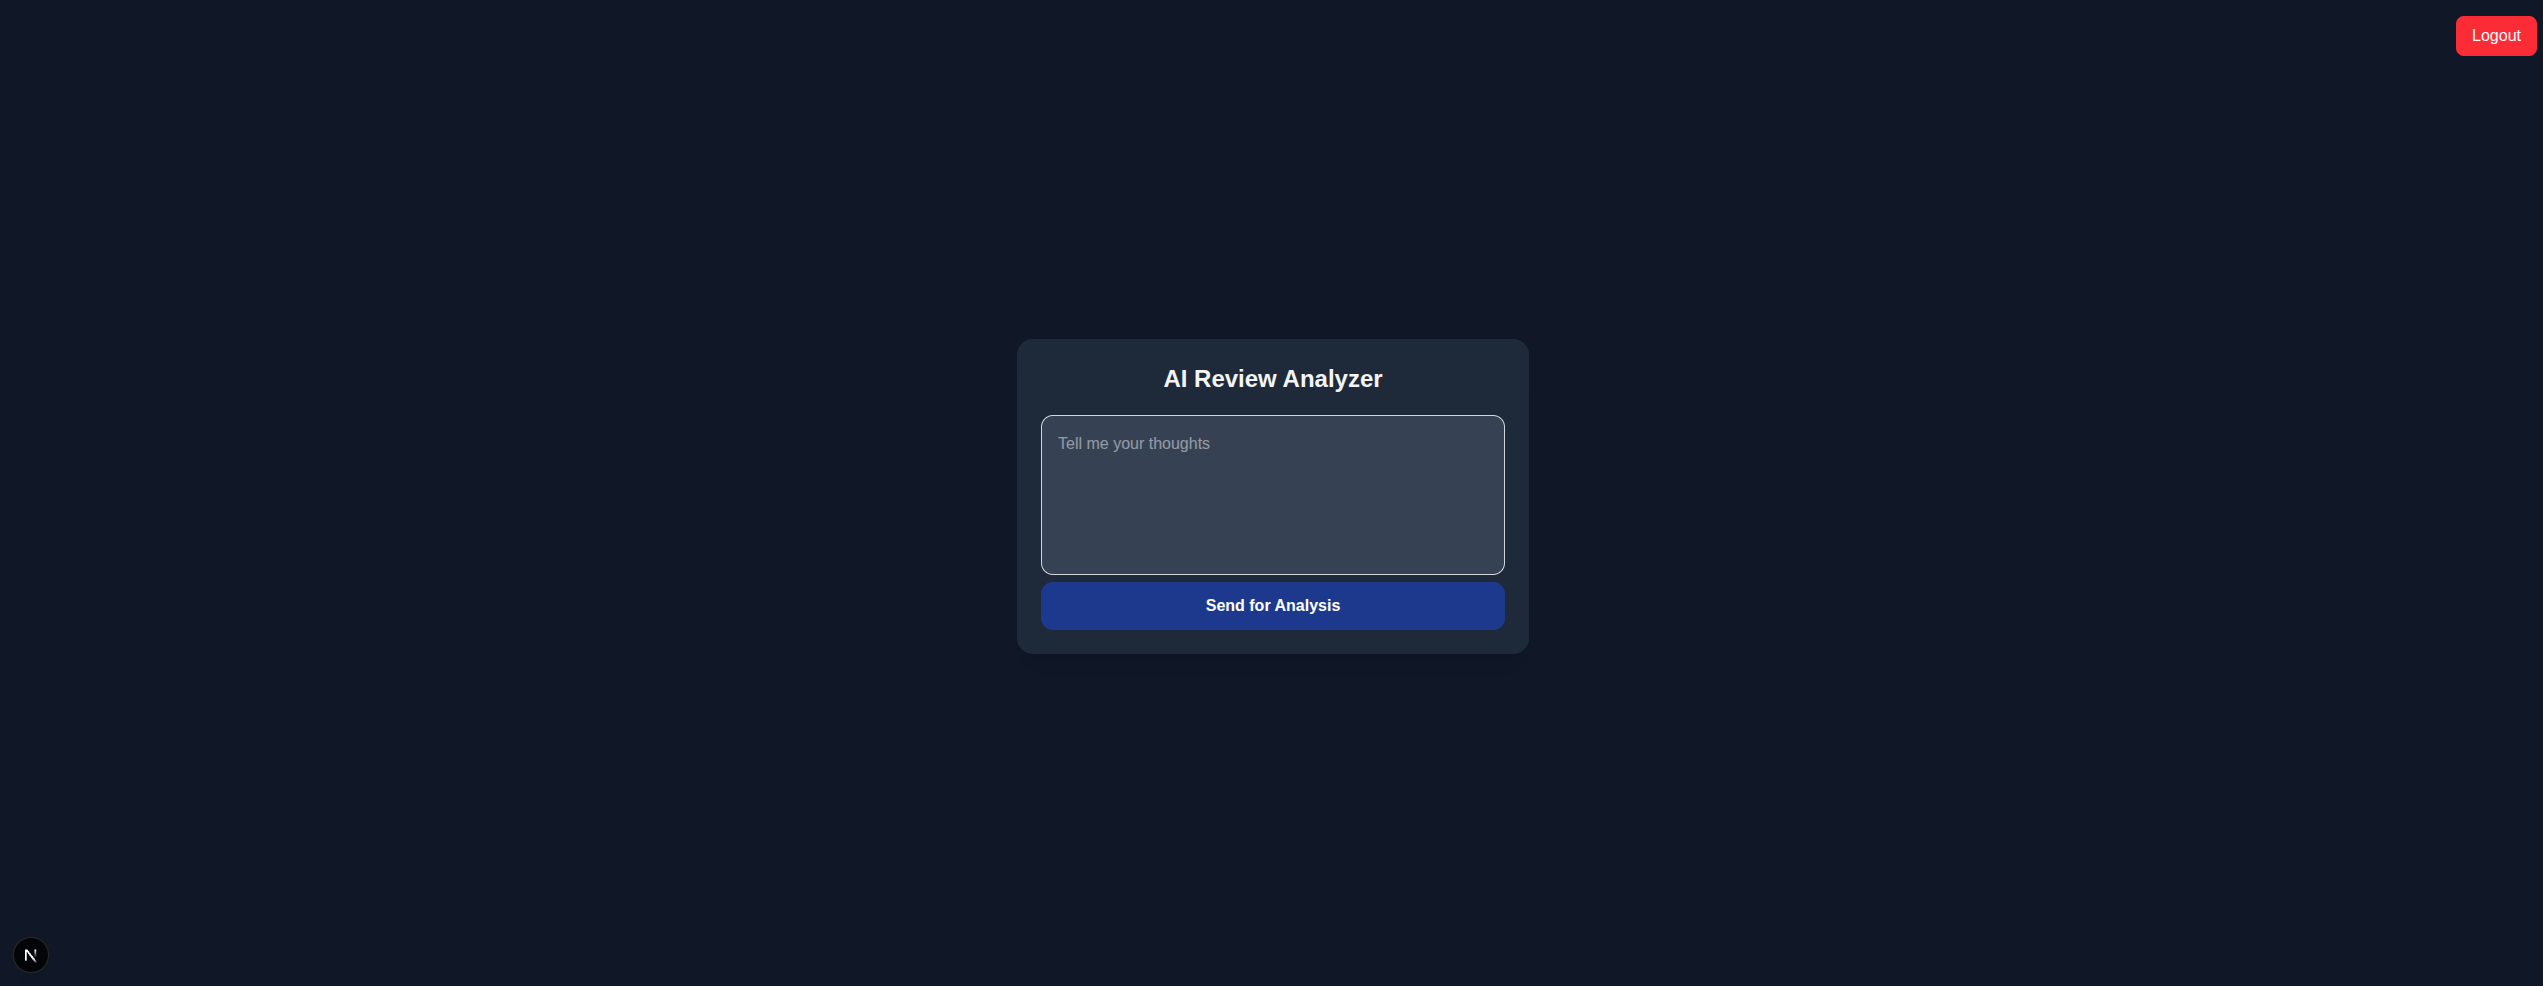
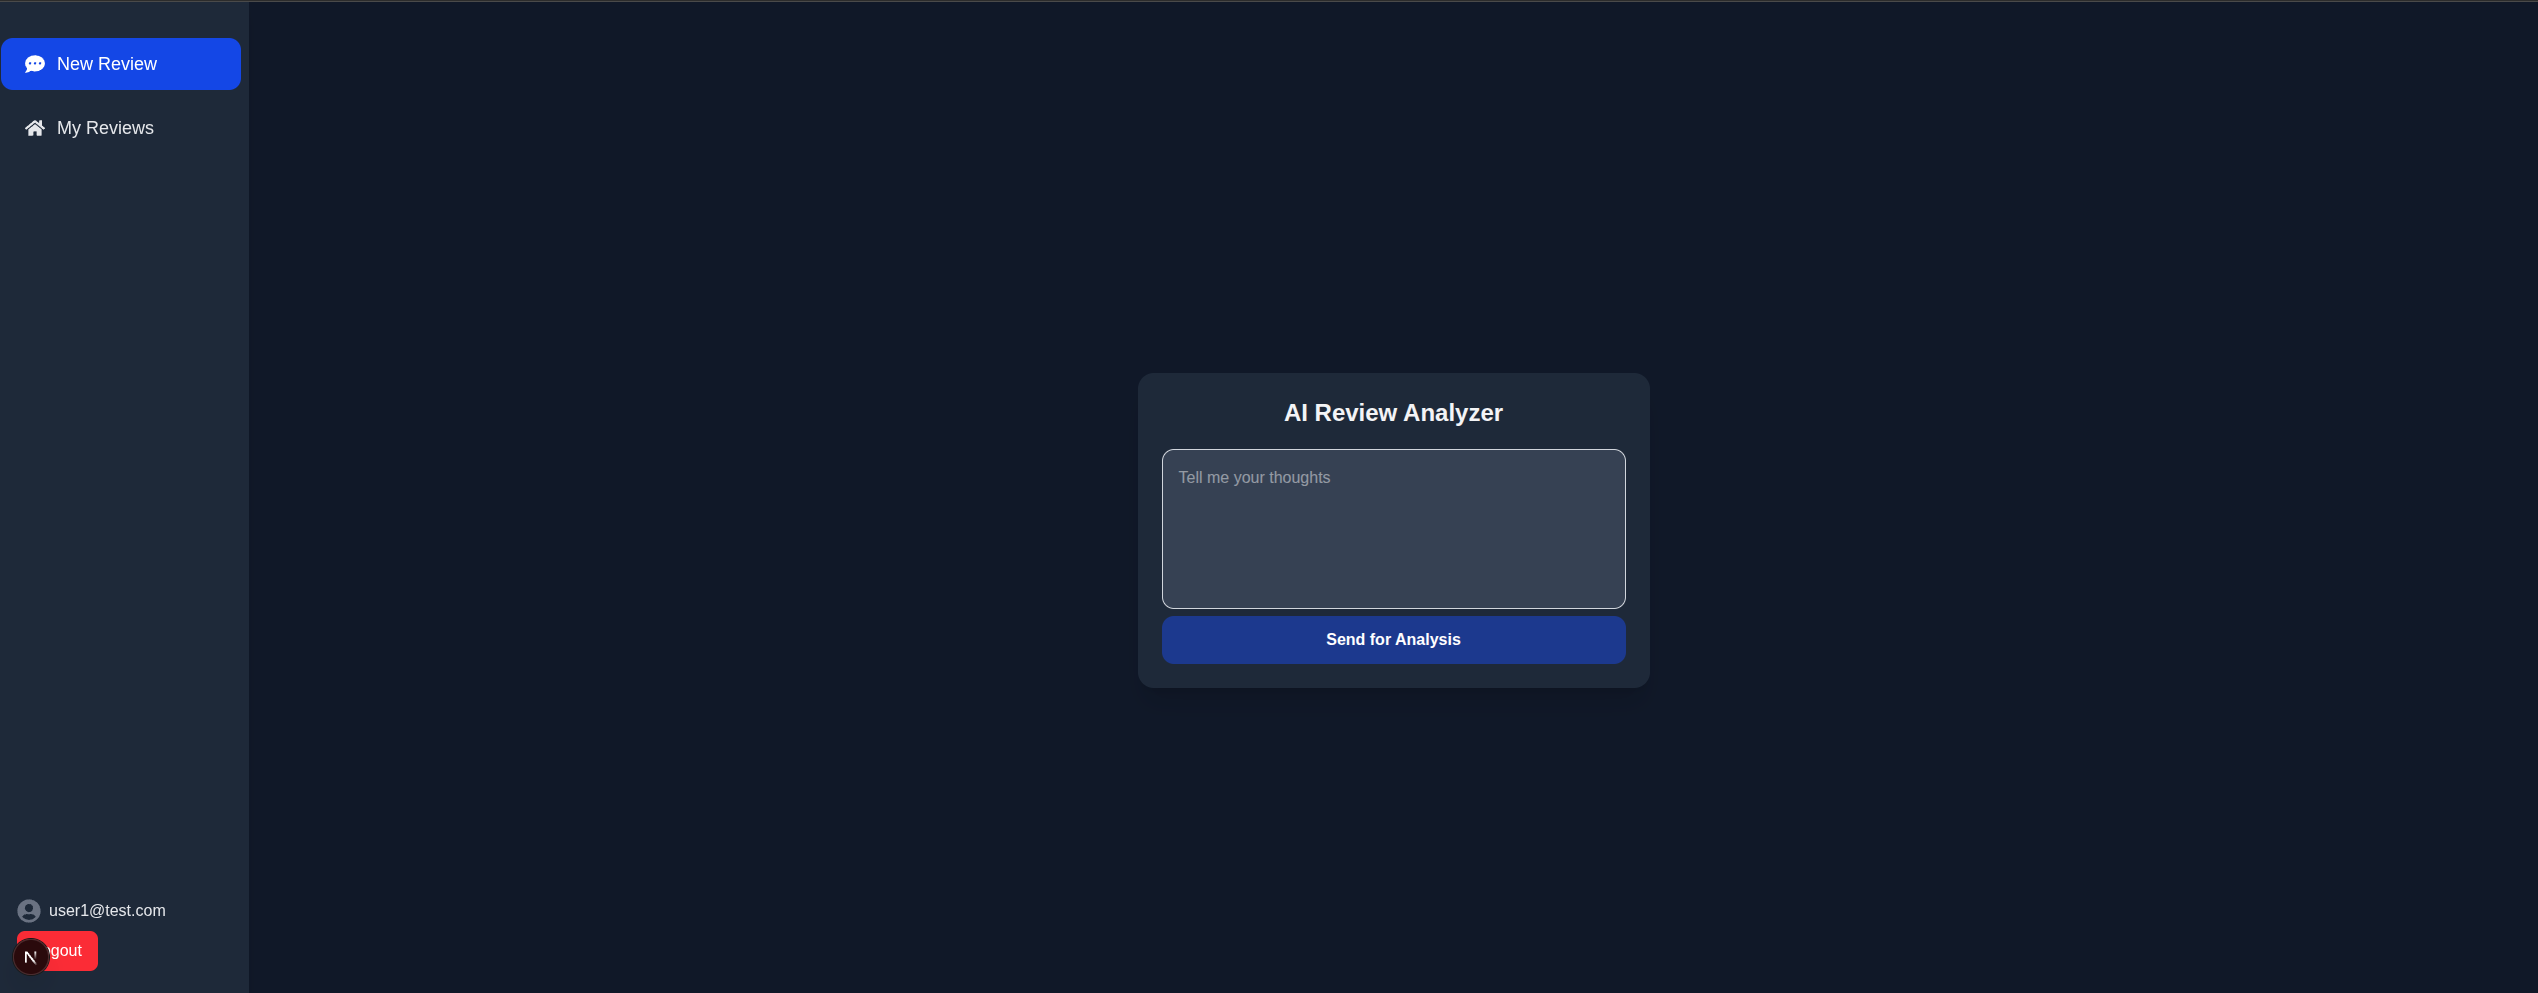
(frontend): Adjust somestyles on admin and update README with new screens

diff --git a/frontend/src/app/(app)/admin/page.tsx b/frontend/src/app/(app)/admin/page.tsx
@@ -8,8 +8,8 @@ import { format } from 'date-fns'
 import { deleteReview, listReview } from '../../lib/reviewService'
 import ReviewFilters from '../../review/components/ReviewFilters'
 import ReviewDetailsModal from '../../review/components/ReviewDetailsModal'
-import LogoutButton from '../../review/components/LogoutButton'
-import toast from 'react-hot-toast'
+import toast, { Toaster } from 'react-hot-toast'
+import { motion, AnimatePresence } from 'framer-motion'
 
 export default function AdminPage() {
   const { data: session } = useSession()
@@ -28,6 +28,7 @@ export default function AdminPage() {
     mutationFn: (id: number) => deleteReview(id, token),
     onSuccess: () => {
       queryClient.invalidateQueries({ queryKey: ['reviews'] })
+      toast.success('Review deleted.')
     }
   })
 
@@ -44,64 +45,109 @@ export default function AdminPage() {
     }
   }, [error, router])
 
-  if (isLoading) return <p className="text-center mt-8">Loading...</p>
+  if (isLoading) {
+    return (
+      <div className="min-h-screen flex items-center justify-center bg-gray-50 dark:bg-gray-900 px-4">
+        <motion.div
+          initial={{ opacity: 0, y: 20 }}
+          animate={{ opacity: 1, y: 0 }}
+          className="max-w-md w-full bg-white dark:bg-gray-800 shadow-xl rounded-2xl p-8 flex flex-col items-center"
+        >
+          <span className="text-xl text-blue-900 dark:text-blue-200 font-semibold mb-2">Loading reviews...</span>
+        </motion.div>
+      </div>
+    )
+  }
   if (error) return null
 
   return (
-    <div className="relative max-w-6xl mx-auto p-4">
-      <h1 className="text-2xl font-semibold mb-6 text-center">Admin Panel - Reviews</h1>
-      <div className="absolute top-4 right-4">
-        <LogoutButton />
-      </div>
-      <div className="overflow-x-auto border rounded-xl shadow-sm">
+    <div className="relative min-h-screen flex items-center justify-center bg-gray-50 dark:bg-gray-900 px-4">
+      <Toaster position="top-right" />
+
+      <motion.div
+        initial={{ opacity: 0, y: 10 }}
+        animate={{ opacity: 1, y: 0 }}
+        exit={{ opacity: 0, y: -10 }}
+        className="max-w-5xl w-full bg-white dark:bg-gray-800 shadow-xl rounded-2xl p-8 space-y-8"
+      >
+        <h1 className="text-2xl font-bold text-center text-gray-800 dark:text-gray-100 mb-6">
+          Admin Panel - Reviews
+        </h1>
         <ReviewFilters onApply={setFilters} />
-        <table className="min-w-full text-sm">
-          <thead className="bg-gray-100 text-gray-600">
-            <tr>
-              <th className="px-4 py-2">Sentiment</th>
-              <th className="px-4 py-2">Status</th>
-              <th className="px-4 py-2">Created</th>
-              <th className="px-4 py-2">Actions</th>
-            </tr>
-          </thead>
-          <tbody>
-            {reviews.length > 0 ? (reviews.map((r: any) => (
-              <tr key={r.id} className="border-t hover:bg-gray-50">
-                <td className="px-4 py-2 text-center">{r.sentiment}</td>
-                <td className="px-4 py-2 text-center">{r.status}</td>
-                <td className="px-4 py-2 text-center">{format(new Date(r.created_at), 'yyyy-MM-dd HH:mm')}</td>
-                <td className="px-4 py-2 text-center">
-                  <div className="flex justify-center gap-2">
-                    <button
-                      onClick={() => setSelectedReview(r)}
-                      className="text-sm bg-blue-900 hover:bg-blue-800 text-white px-3 py-1 rounded"
-                    >
-                      View
-                    </button>
-                    <button
-                      onClick={() => handleDelete(r.id)}
-                      className="text-sm bg-red-900 hover:bg-red-800 text-white px-3 py-1 rounded"
-                    >
-                      Delete
-                    </button>
-                  </div>
-                </td>
+
+        <div className="overflow-x-auto border rounded-xl shadow-sm bg-gray-100 dark:bg-gray-700 p-2">
+          <table className="min-w-full text-sm">
+            <thead className="bg-gray-200 dark:bg-gray-800 text-gray-700 dark:text-gray-300">
+              <tr>
+                <th className="px-4 py-2">Sentiment</th>
+                <th className="px-4 py-2">Status</th>
+                <th className="px-4 py-2">Created</th>
+                <th className="px-4 py-2">Actions</th>
               </tr>
-            )))
-              : (
-                <tr className="border-t hover:bg-gray-50">
-                  <td colSpan={7} className='text-center'>No records found!</td>
-                </tr>)}
-          </tbody>
-        </table>
-      </div>
-      {selectedReview && (
-        <ReviewDetailsModal
-          isOpen={!!selectedReview}
-          onClose={() => setSelectedReview(null)}
-          review={selectedReview}
-        />
-      )}
+            </thead>
+            <tbody>
+              <AnimatePresence>
+                {reviews.length > 0 ? (reviews.map((r: any) => (
+                  <motion.tr
+                    key={r.id}
+                    initial={{ opacity: 0, y: 8 }}
+                    animate={{ opacity: 1, y: 0 }}
+                    exit={{ opacity: 0, y: -8 }}
+                    className="border-t dark:border-gray-600 hover:bg-gray-50 dark:hover:bg-gray-800"
+                  >
+                    <td className="px-4 py-2 text-center">
+                      <span className={`px-2 py-1 rounded-full font-semibold text-xs
+                        ${r.sentiment === 'positive' ? 'bg-green-100 text-green-700'
+                          : r.sentiment === 'negative' ? 'bg-red-100 text-red-700'
+                            : 'bg-gray-200 text-gray-700'}`}>
+                        {r.sentiment}
+                      </span>
+                    </td>
+                    <td className="px-4 py-2 text-center">
+                      <span className={`px-2 py-1 rounded-full font-bold uppercase text-xs
+                        ${r.status === 'Accepted' ? 'bg-green-100 text-green-700'
+                          : 'bg-red-100 text-red-700'}`}>
+                        {r.status}
+                      </span>
+                    </td>
+                    <td className="px-4 py-2 text-center">
+                      {format(new Date(r.created_at), 'yyyy-MM-dd HH:mm')}
+                    </td>
+                    <td className="px-4 py-2 text-center">
+                      <div className="flex justify-center gap-2">
+                        <button
+                          onClick={() => setSelectedReview(r)}
+                          className="text-sm bg-blue-900 hover:bg-blue-800 text-white px-3 py-1 rounded transition"
+                        >
+                          View
+                        </button>
+                        <button
+                          onClick={() => handleDelete(r.id)}
+                          className="text-sm bg-red-900 hover:bg-red-800 text-white px-3 py-1 rounded transition"
+                        >
+                          Delete
+                        </button>
+                      </div>
+                    </td>
+                  </motion.tr>
+                )))
+                  : (
+                    <tr className="border-t dark:border-gray-600 hover:bg-gray-50 dark:hover:bg-gray-800">
+                      <td colSpan={4} className='text-center text-gray-500 dark:text-gray-300 py-4'>No records found!</td>
+                    </tr>)}
+              </AnimatePresence>
+            </tbody>
+          </table>
+        </div>
+
+        {selectedReview && (
+          <ReviewDetailsModal
+            isOpen={!!selectedReview}
+            onClose={() => setSelectedReview(null)}
+            review={selectedReview}
+          />
+        )}
+      </motion.div>
     </div>
   )
 }

diff --git a/frontend/src/app/components/AdminLayout.tsx b/frontend/src/app/components/AdminLayout.tsx
@@ -4,6 +4,7 @@ import { usePathname } from 'next/navigation'
 import { FaChartPie, FaTable, FaHome, FaUserCircle, FaCommentDots } from 'react-icons/fa'
 import LogoutButton from '@/app/review/components/LogoutButton'
 import { useSession } from 'next-auth/react'
+import { useEffect, useState } from 'react'
 
 const navLinks = [
   { href: '/', label: 'New Review', icon: <FaCommentDots />, role: 'user' },
@@ -15,21 +16,28 @@ const navLinks = [
 export default function AdminLayout({ children }: { children: React.ReactNode }) {
   const pathname = usePathname()
   const { data: session } = useSession()
+  const [mounted, setMounted] = useState(false)
+
+
+  useEffect(() => {
+    setMounted(true)
+  }, [])
+
+  if (!mounted) return null
 
   const visibleLinks = session?.user?.role == 'admin'
     ? navLinks
     : navLinks.filter(link => link.role == 'user')
 
   return (
-    <div className="flex min-h-screen bg-gray-50 dark:bg-gray-900">
-
-      <aside className="w-64 bg-white dark:bg-gray-800 shadow-lg flex flex-col justify-between">
-        <nav className="mt-8 space-y-1">
+    <div>
+      <aside className="fixed top-0 left-0 h-screen w-64 bg-white dark:bg-gray-800 shadow-lg flex flex-col justify-between z-30">
+        <nav className="mt-8 flex-1 flex flex-col gap-1 overflow-y-auto px-2">
           {visibleLinks.map(link => (
             <Link
               key={link.href}
               href={link.href}
-              className={`flex items-center gap-3 px-6 py-3 mx-3 my-1 rounded-xl text-lg font-medium
+              className={`flex items-center gap-3 px-6 py-3 my-1 rounded-xl text-lg font-medium
                 ${pathname === link.href ? 'bg-blue-900 text-white dark:bg-blue-700' : 'text-gray-800 dark:text-gray-200 hover:bg-gray-100 dark:hover:bg-gray-700'}
               `}
             >
@@ -39,7 +47,7 @@ export default function AdminLayout({ children }: { children: React.ReactNode })
           ))}
         </nav>
 
-        <div className="mb-8 px-6">
+        <div className="px-6 pb-6">
           <div className="flex items-center gap-2 mb-2">
             <FaUserCircle className="text-2xl text-gray-500" />
             <span className="text-base text-gray-700 dark:text-gray-200 font-medium">
@@ -50,7 +58,9 @@ export default function AdminLayout({ children }: { children: React.ReactNode })
         </div>
       </aside>
 
-      <main className="flex-1 p-8">{children}</main>
+      <main className="ml-64 min-h-screen bg-gray-50 dark:bg-gray-900 p-8">
+        {children}
+      </main>
     </div>
   )
 }

diff --git a/frontend/src/app/review/components/ReviewForm.tsx b/frontend/src/app/review/components/ReviewForm.tsx
@@ -6,7 +6,6 @@ import { submitReviewRequest, createReview } from '../../lib/reviewService'
 import toast, { Toaster } from "react-hot-toast"
 import { motion, AnimatePresence } from 'framer-motion'
 import { useSession } from "next-auth/react"
-import LogoutButton from "./LogoutButton"
 
 interface LLMFeedback {
   sentiment: string
@@ -111,9 +110,6 @@ export default function ReviewForm() {
 
   return (
     <div className="relative min-h-screen flex items-center justify-center bg-gray-50 dark:bg-gray-900 px-4">
-      <div className="absolute top-4 right-4">
-        <LogoutButton />
-      </div>
       <div className="max-w-lg w-full bg-white dark:bg-gray-800 shadow-xl rounded-2xl p-6 space-y-5">
         <Toaster position="top-right" />
         <h1 data-testid="title" className="text-2xl font-bold text-center text-gray-800 dark:text-gray-100">AI Review Analyzer</h1>

diff --git a/frontend/src/app/(app)/my-reviews/page.tsx b/frontend/src/app/(app)/my-reviews/page.tsx
@@ -4,7 +4,6 @@ import { useSession } from 'next-auth/react'
 import { useQuery } from '@tanstack/react-query'
 import { getMyReviews } from '../../lib/reviewService'
 import Link from 'next/link'
-import LogoutButton from '../../review/components/LogoutButton'
 import { motion, AnimatePresence } from 'framer-motion'
 
 export default function MyReviewsPage() {
@@ -31,9 +30,6 @@ export default function MyReviewsPage() {
 
   return (
     <div className="relative min-h-screen flex items-center justify-center bg-gray-50 dark:bg-gray-900 px-4">
-      <div className="absolute top-4 right-4">
-        <LogoutButton />
-      </div>
       <motion.div
         initial={{ opacity: 0, y: 10 }}
         animate={{ opacity: 1, y: 0 }}

diff --git a/README.md b/README.md
@@ -39,6 +39,15 @@
 ![Home](assets/review_analyzer.png)
 <p align="center"><em>Review Analyzer</em></p>
 
+![Home Submit](review_analyzer_submit.png)
+<p align="center"><em>Review Analyzer Submit button</em></p>
+
+![My Reviews](my_reviews.png)
+<p align="center"><em>My Reviews</em></p>
+
+![Dashboard](dashboard.png)
+<p align="center"><em>Dashboard</em></p>
+
 ![ReviewList](assets/review_list.png)
 <p align="center"><em>Review List (Admin)</em></p>
 
@@ -143,9 +152,9 @@ review-analyzer/
 - [x] 📊 Admin dashboard with filters and stats
 - [x] 🔐 User authentication (credentials & Google OAuth)
 - [x] 📝 Review linked to user (user-specific review history)
-- [ ] 📊 Admin statistics by sentiment, status, etc.
+- [x] 📊 Admin statistics by sentiment, status, etc.
 - [x] 🗃 User “My Reviews” page (/my-reviews)
-- [ ] 🚀 Public demo deployment
+- [x] 🚀 Public demo deployment
 
 
 ---
